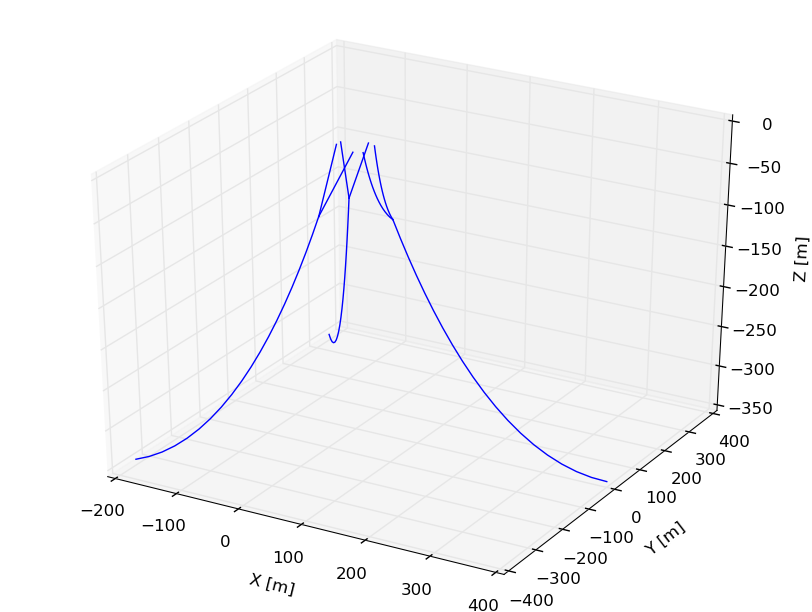
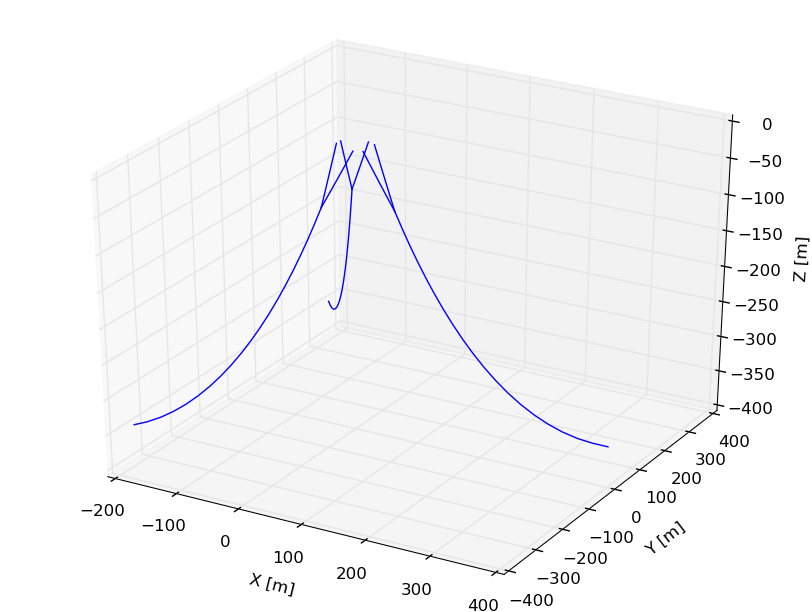
changed documentation with update to v 1.20.10

diff --git a/docs/source/python_example.rst b/docs/source/python_example.rst
@@ -20,6 +20,7 @@ Information explicitly requested is printed to the command line:
 
 .. code-block:: bash
 
+   MAP++ (Mooring Analysis Program++) Ver. 1.20.10 Mar-22-2016
    MAP++ environment properties (set externally)...
        Gravity constant          [m/s^2]  : 9.81
        Sea density               [kg/m^3] : 1025.00
@@ -31,22 +32,27 @@ Information explicitly requested is printed to the command line:
    [[  1.99e+04  -3.78e-03   5.19e-03  -4.89e-02  -2.00e+05  -1.77e-02]
     [  1.18e-03   1.99e+04  -1.06e-02   2.00e+05   3.50e-02  -6.17e-01]
     [  2.49e-03  -1.01e-03   2.27e+04   2.21e-03   2.23e-01  -2.12e-01]
-    [  1.95e-03   2.00e+05  -7.14e-03   1.70e+08   5.78e-03  -3.01e+01]
-    [ -2.00e+05   3.33e-04   4.85e-01  -4.89e-02   1.70e+08  -2.19e-02]
-    [  8.83e-04  -5.59e-01   1.12e-03  -5.44e+01  -7.06e-02   1.21e+08]]
+    [  1.95e-03   2.00e+05  -7.14e-03   2.17e+08   1.10e-02  -5.23e+01]
+    [ -2.00e+05   3.33e-04   4.85e-01  -4.89e-02   2.17e+08  -2.19e-02]
+    [  8.83e-04  -5.59e-01   1.12e-03  -8.53e+01  -7.90e-02   1.41e+08]]
    
    Linearized stiffness matrix with 5.00 surge vessel displacement:
    
-   [[  1.96e+04  -4.75e-03   1.17e+03   4.63e-02  -2.15e+05  -2.02e-03]
-    [ -3.30e-03   2.07e+04   7.58e-03   1.81e+05   5.86e-02   1.72e+03]
-    [  1.17e+03   8.71e-04   2.32e+04  -3.67e-02  -1.19e+04   8.90e-02]
-    [ -2.10e-03   2.00e+05  -2.70e-03   1.70e+08  -9.22e-02  -3.00e+01]
-    [ -2.00e+05   1.93e-03   4.91e-01   6.13e-02   1.70e+08  -2.49e-02]
-    [  1.12e-03  -5.60e-01   2.96e-03  -5.43e+01   7.27e-02   1.21e+08]]
-   Line 0: H = 651461.23 [N]  V = 1178548.28 [N]
-   Line 0: Fx = -651461.22 [N]  Fy = 117.69 [N]  Fz = 1178548.28 [N]
+   [[  1.96e+04  -2.58e-05   1.17e+03   9.61e-03  -2.15e+05  -1.67e-01]
+    [ -4.57e-04   2.07e+04   1.41e-03   1.81e+05  -5.24e-02   1.72e+03]
+    [  1.17e+03  -3.32e-04   2.32e+04  -5.38e-03  -1.19e+04   1.12e-03]
+    [  1.05e-03   2.00e+05   1.51e-03   2.17e+08   4.25e-02  -5.21e+01]
+    [ -2.00e+05  -8.91e-05   4.79e-01   5.43e-03   2.17e+08   6.60e-02]
+    [  2.10e-03  -5.60e-01   5.77e-03  -8.52e+01   1.07e-01   1.41e+08]]
+   Line 0: H = 597513.33 [N]  V = 1143438.75 [N]
+   Line 0: Fx = -597513.33 [N]  Fy = -0.00 [N]  Fz = 1143438.75 [N]
+   
 
 A figure is also produced to show the mooring geometry with a :math:`5` meter vessel offset:
+
+.. Note::
+   The default units for the linearized stiffness matrix are [N/m], [N/rad], [Nm/m], and [Nm/rad]. See
+   :ref:`the section on the linearized stiffness matrix <linearized_matrix_units>` in the FAQ for more information. 
 
 .. figure:: nstatic/example.png
     :align: center

diff --git a/docs/source/faq.rst b/docs/source/faq.rst
@@ -4,8 +4,8 @@ FAQ
 Using with Python
 -----------------
 
-''Python doesn't work''
-~~~~~~~~~~~~~~~~~~~~~~~
+''Python doesn't load MAP''
+~~~~~~~~~~~~~~~~~~~~~~~~~~~
 
 If importing MAP++ into Python leads to this error on Linux/OSx: 
  
@@ -79,3 +79,33 @@ Alternatively, you can decrease the inner loop solve tolerance, but you might be
 Taut lines are strange like that. 
 
 A good solver option/initial guess strategy should converge on a solution in under 100-500 total iterations in the first solve.
+
+
+Running MAP++
+-------------
+
+What are the units of the linearized stiffness matrix?
+~~~~~~~~~~~~~~~~~~~~~~~~~~~~~~~~~~~~~~~~~~~~~~~~~~~~~~
+
+.. _linearized_matrix_units:
+
+The linearized stiffness matrix is a :math:`6\times 6` entry comprised of four :math:`3 \times 3` blocks:
+
+.. math::
+   \mathbf{K}_{6\times 6}=\begin{bmatrix} \mathbf{A}_{3\times 3} & \mathbf{B}_{3\times 3}\\  \mathbf{C}_{3\times 3} & \mathbf{D}_{3\times 3} \end{bmatrix}
+
+The units are:
+
+* [N/m] for :math:`\mathbf{A}`
+* [N/rad] for :math:`\mathbf{B}` 
+* [Nm/m] for  :math:`\mathbf{C}` 
+* [Nm/rad] for :math:`\mathbf{D}`
+
+Note that the reference position is fixed at the :ref:`global origin <ref_position_is_fixed>`.
+
+The linearized stiffness values are not consistent
+~~~~~~~~~~~~~~~~~~~~~~~~~~~~~~~~~~~~~~~~~~~~~~~~~~
+
+This is likely attributed to round-off errors. 
+We recommend testing linearized stiffness matrix entries for sensitivity against different epsilon values, tolerances, and finite differencing methods. 
+The matrix entries should converge towards a set of values for those different options. 

diff --git a/docs/source/api_doc.rst b/docs/source/api_doc.rst
@@ -8,16 +8,16 @@ API Documentation
 Python API
 ----------
 
-.. automodule:: mapsys
-
-.. autoclass:: Map
-   :members: linear
-   :undoc-members:
-   :show-inheritance:
-   :exclude-members: funky
-
-.. .. automethod:: mapsys.Map.linear
-.. .. ,map_set_sea_depth,map_set_gravity,map_set_sea_density,plot_x,plot_y,plot_z,get_fairlead_force_2d,get_fairlead_force_3d,funcl,funch,dxdh,dxdv,dzdh,dzdv,displace_vessel,read_file
-
-
-..   mapsys
+.. .. automodule:: mapsys
+.. 
+.. .. autoclass:: Map
+..    :members: linear
+..    :undoc-members:
+..    :show-inheritance:
+..    :exclude-members: funky
+.. 
+.. .. .. automethod:: mapsys.Map.linear
+.. .. .. ,map_set_sea_depth,map_set_gravity,map_set_sea_density,plot_x,plot_y,plot_z,get_fairlead_force_2d,get_fairlead_force_3d,funcl,funch,dxdh,dxdv,dzdh,dzdv,displace_vessel,read_file
+.. 
+.. 
+.. ..   mapsys

diff --git a/docs/source/notes.rst b/docs/source/notes.rst
@@ -7,7 +7,10 @@ Release Notes
 
 License
 -------
-MAP++ is licensed under Apache v 2.0 :ref:`license`.
+MAP++ is licensed under Apache v 2.0 :ref:`license`. 
+This software is provided as-is and without warrant. 
+There are no guarantees it is bug free or provides the correct answers, even if it is used for the intended purpose. 
+By using this software and as a condition of the Apache license, you agree to not hold the developers liable for damages.  
 
 .. toctree::
    :maxdepth: 4
@@ -29,4 +32,5 @@ Better String Library  `Version 0.1.1 <http://mike.steinert.ca/bstring/doc/>`_
 
 Change Log
 ----------
-V. 1.20.00 -- first release
+V. 1.20.00 -- First release
+V. 1.20.10 -- Repaired the linearized stiffness matrix function and improved the input file parsing in python.

diff --git a/docs/source/input_file.rst b/docs/source/input_file.rst
@@ -260,6 +260,10 @@ Solver options are applied to the entire model domain.
 | ``REF_POSITION``       | reference position                                                     | 
 +------------------------+------------------------------------------------------------------------+ 
 
+.. _ref_position_is_fixed:
+
+.. todo:: The ``REF_POSITION`` options is disabled in MAP++ we can develop this feature into the program. The reference position is fixed at :math:`<0, 0, 0>` until then. 
+
 Default Solver Options
 ^^^^^^^^^^^^^^^^^^^^^^
 .. _default_options:
